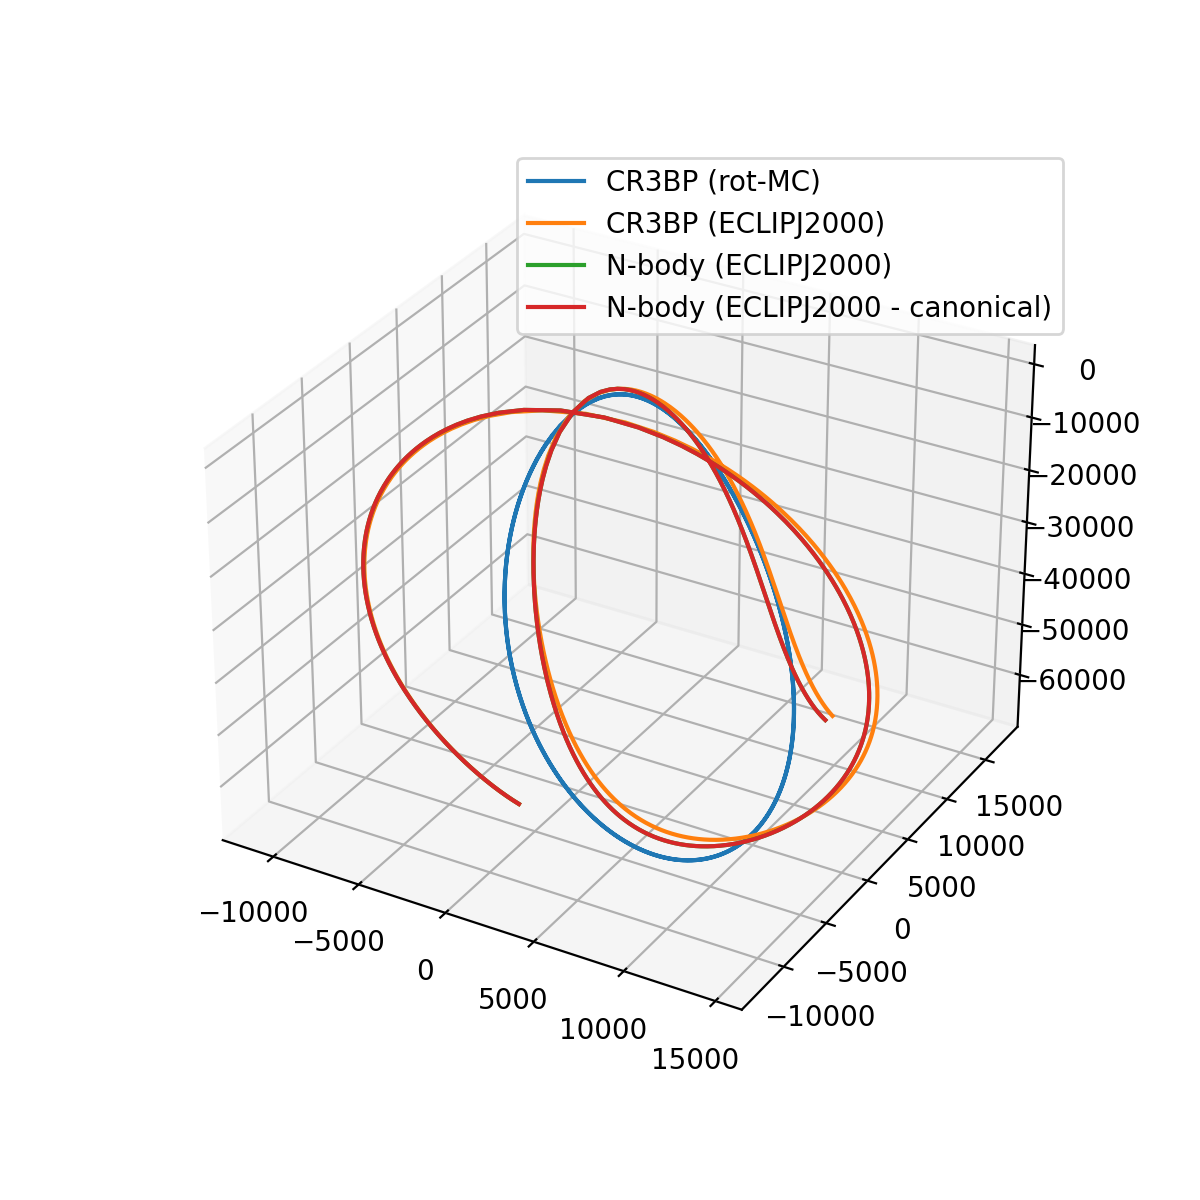
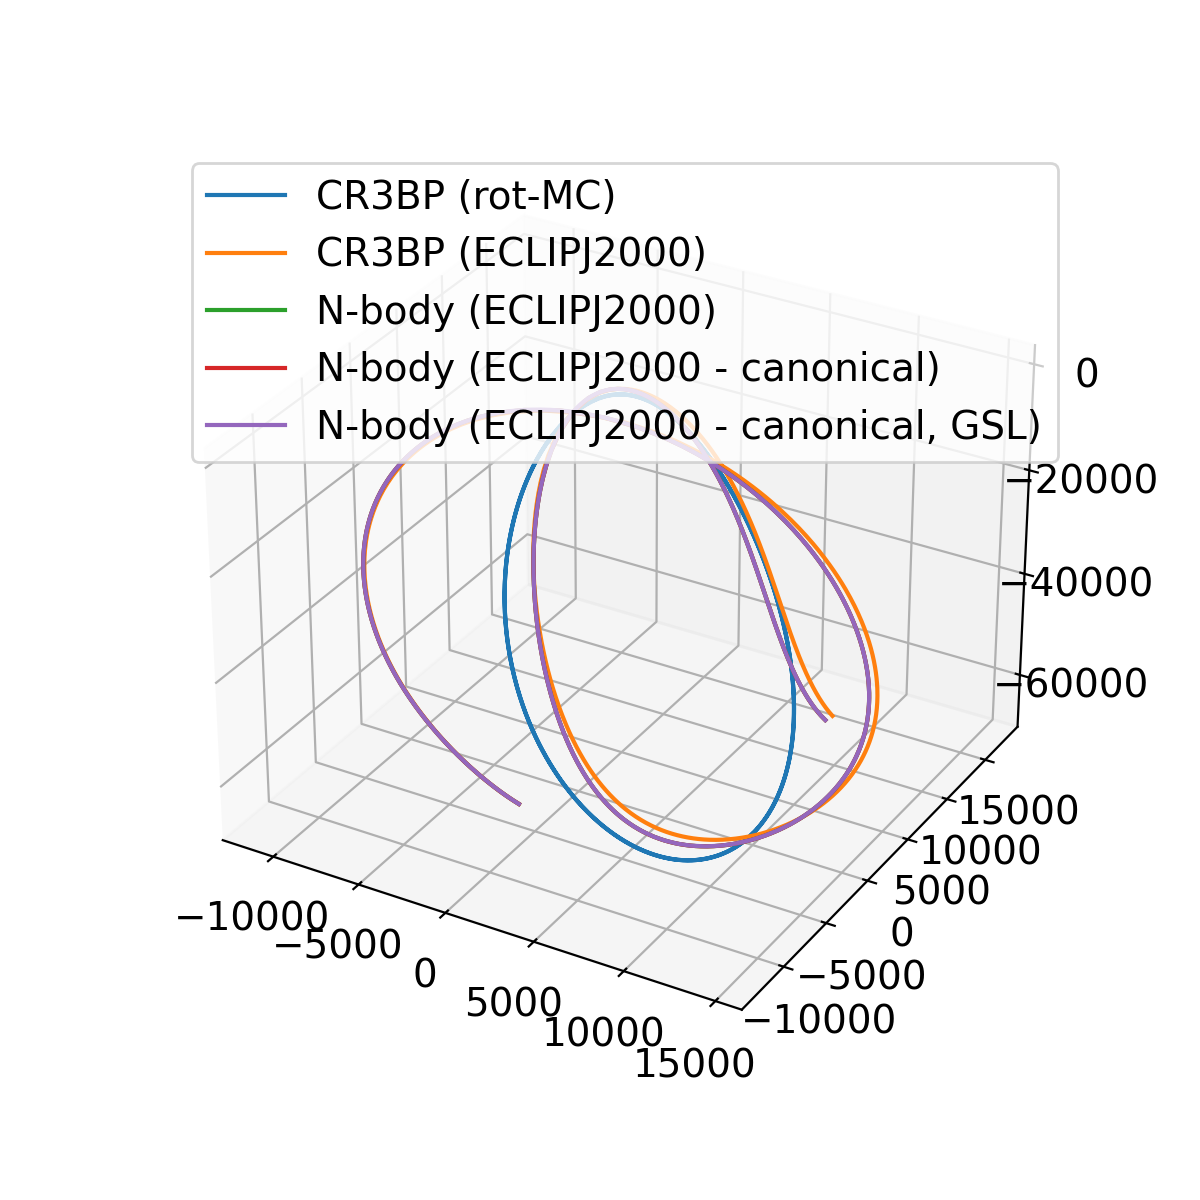
gsl-based functions init

diff --git a/luna2/_propagator_gsl_nbody.py b/luna2/_propagator_gsl_nbody.py
@@ -1,0 +1,125 @@
+"""
+Propagator with pygsl for full-ephemeris n-body problem
+For SPICE inertial frames, see:
+https://naif.jpl.nasa.gov/pub/naif/toolkit_docs/C/req/frames.html#Appendix.%20%60%60Built%20in''%20Inertial%20Reference%20Frames
+"""
+
+import copy
+import numpy as np
+import matplotlib.pyplot as plt
+
+import pygsl._numobj as numx
+from pygsl import odeiv
+
+
+from ._eom_scipy_nbody import eom_nbody
+from ._plotter import set_equal_axis
+
+
+class PseudoODESolution:
+    """Class for storing time and states in a format similar to ODE solution from solve_ivp.
+    This is purely for interoperability with EKF.
+    """
+    def __init__(self, ts, y, t_events=None, y_events=None):
+        assert len(ts) == y.shape[1], "y should be nx-by-N, where N is time-steps"
+        self.t = ts 
+        self.y = y
+        self.t_events = t_events
+        self.y_events = y_events
+        return 
+
+
+class GSLPropagatorNBody:
+    def __init__(
+        self,
+        naif_frame,
+        naif_ids,
+        mus,
+        lstar = 3000.0,
+        use_canonical=False,
+    ):
+        """Initialize propagator.
+        The spacecraft's N-body problem is formulated with `naif_ids[0]` as the primary body.
+        If `use_canonical = True`, `mus` are scaled such that the `mu` of the primary body is 1.
+        
+        Args:
+            naif_frame (str): SPICE frame name
+            naif_ids (list): SPICE NAIF IDs of gravitational bodies to account for
+            mus (list): GMs of gravitational bodies to account for, in km^3/s^2
+            lstar (float): length scale for canonical units, in km
+            use_canonical (bool): whether to use canonical units
+        """
+        self.naif_frame = naif_frame
+        self.naif_ids = naif_ids
+        self.mus = mus
+        self.use_canonical = use_canonical
+        if use_canonical:
+            self.mus_use = np.array(self.mus) / mus[0]
+            self.lstar = lstar
+            self.vstar = np.sqrt(mus[0]/self.lstar)
+            self.tstar = lstar/self.vstar
+        else:
+            self.mus_use = self.mus
+            self.lstar, self.tstar, self.vstar = 1.0, 1.0, 1.0
+        return
+    
+    def summary(self):
+        """Print info about integrator"""
+        print(f" ******* N-body GSL propagator summary ******* ")
+        print(f" |   NAIF frame      : {self.naif_frame}")
+        print(f" |   NAIF IDs        : {self.naif_ids}")
+        print(f" |   GMs             : {self.mus}")
+        print(f" |   Canonical units : {self.use_canonical}")
+        print(f" |   lstar           : {self.lstar}")
+        print(f" |   tstar           : {self.tstar}")
+        print(f" |   vstar           : {self.vstar}")
+        print(f" ----------------------------------------- ")
+        return
+    
+    def dim2nondim(self, state):
+        assert len(state) == 6, "state should be length 6"
+        return np.concatenate((state[0:3]/self.lstar, state[3:6]/self.vstar))
+
+    def eom(self, et0, t, x):
+        """Evaluate equations of motion"""
+        params = [self.mus_use, self.naif_ids, et0, self.lstar, self.tstar, self.naif_frame]
+        return eom_nbody(t, x, params)
+    
+    def solve(
+        self,
+        et0,
+        t_span,
+        x0,
+        t_eval = None,
+        eps_abs = 1e-12,
+        eps_rel = 1e-14,
+        hstart = 1e-6,
+        max_iter = 10000000,
+    ):
+        assert len(x0) == 6, "Initial state should be length 6!"
+
+        # initialize integrator
+        params = [self.mus_use, self.naif_ids, et0, self.lstar, self.tstar, self.naif_frame]
+        stepper = odeiv.step_rk8pd
+        dimension = len(x0)
+        step = stepper(dimension, eom_nbody, args = params)
+        control = odeiv.control_y_new(step, eps_abs, eps_rel)
+        evolve  = odeiv.evolve(step, control, dimension)
+
+        # initialize storage
+        ts = []
+        ys = []
+
+        # apply solve
+        t = t_span[0]
+        t1 = t_span[1]
+        y = copy.deepcopy(x0)
+        h = hstart
+        for i in range(max_iter):
+            if t >= t1:
+                break
+            t, h, y = evolve.apply(t, t1, h, y)
+            ts.append(t)
+            ys.append(y)
+        ys = np.array(ys).T
+        return PseudoODESolution(ts, ys)

diff --git a/luna2/_propagator_scipy_nbody.py b/luna2/_propagator_scipy_nbody.py
@@ -1,5 +1,5 @@
 """
-Propagator for full-ephemeris n-body problem
+Propagator with scipy for full-ephemeris n-body problem
 For SPICE inertial frames, see:
 https://naif.jpl.nasa.gov/pub/naif/toolkit_docs/C/req/frames.html#Appendix.%20%60%60Built%20in''%20Inertial%20Reference%20Frames
 """
@@ -50,7 +50,7 @@ class PropagatorNBody:
     
     def summary(self):
         """Print info about integrator"""
-        print(f" ******* N-body propagator summary ******* ")
+        print(f" ******* N-body scipy propagator summary ******* ")
         print(f" |   NAIF frame      : {self.naif_frame}")
         print(f" |   NAIF IDs        : {self.naif_ids}")
         print(f" |   GMs             : {self.mus}")
@@ -65,6 +65,11 @@ class PropagatorNBody:
         assert len(state) == 6, "state should be length 6"
         return np.concatenate((state[0:3]/self.lstar, state[3:6]/self.vstar))
 
+    def eom(self, et0, t, x):
+        """Evaluate equations of motion"""
+        params = [self.mus_use, self.naif_ids, et0, self.lstar, self.tstar, self.naif_frame]
+        return eom_nbody(t, x, params)
+    
     def solve(
         self, et0, t_span, x0,
         t_eval=None, method="RK45", rtol=1e-11, atol=1e-11, dense_output=False
@@ -90,11 +95,6 @@ class PropagatorNBody:
             eom_nbody, t_span, x0, args=(params,),
             t_eval=t_eval, method=method, rtol=rtol, atol=atol, dense_output=dense_output,
         )
-    
-    def eom(self, et0, t, x):
-        """Evaluate equations of motion"""
-        params = [self.mus_use, self.naif_ids, et0, self.lstar, self.tstar, self.naif_frame]
-        return eom_nbody(t, x, params)
     
     def get_stm_cdm(self, et0, tf, x0, h=1e-6, get_svf=False):
         """Get STM from et0 to tf using x0 as initial state

diff --git a/tests/test_propagator_nbody.py b/tests/test_propagator_nbody.py
@@ -96,9 +96,25 @@ if __name__=="__main__":
         luna2.dimensional_to_canonical(states_J2000, lstar_nbody, vstar_nbody)[:,0],
         t_eval=np.linspace(0, res_nbody.t[-1]/tstar_nbody, 1000)
     )
-    print("state0: ",
-        luna2.dimensional_to_canonical(states_J2000, lstar_nbody, vstar_nbody)[:,0]
+    print(f"Final state: {res_nbody_canonical.y[:,-1]}")
+
+    # create GSL-based integrator
+    prop_nbody_canonical = luna2.GSLPropagatorNBody(
+        naif_frame,
+        naif_ids,
+        mus,
+        lstar=lstar_nbody,
+        use_canonical=True,
     )
+    prop_nbody_canonical.summary()
+    res_gsl_canonical = prop_nbody_canonical.solve(
+        et0,
+        [0,res_nbody.t[-1]/tstar_nbody],
+        luna2.dimensional_to_canonical(states_J2000, lstar_nbody, vstar_nbody)[:,0],
+        t_eval=np.linspace(0, res_nbody.t[-1]/tstar_nbody, 1000)
+    )
+    print(f"Final state: {res_gsl_canonical.y[:,-1]}")
+
 
     # plot CR3BP trajectory
     fig = plt.figure(figsize = (6, 6))
@@ -108,11 +124,15 @@ if __name__=="__main__":
     #ax.plot(_states_cr3bp_MC[0,:], _states_cr3bp_MC[1,:], _states_cr3bp_MC[2,:], label="CR3BP")
     ax.plot(res_nbody.y[0,:], res_nbody.y[1,:], res_nbody.y[2,:], label=f"N-body ({naif_frame})")
 
-
     ax.plot(res_nbody_canonical.y[0,:]*lstar_nbody,
             res_nbody_canonical.y[1,:]*lstar_nbody,
             res_nbody_canonical.y[2,:]*lstar_nbody,
         label=f"N-body ({naif_frame} - canonical)")
+    
+    ax.plot(res_gsl_canonical.y[0,:]*lstar_nbody,
+            res_gsl_canonical.y[1,:]*lstar_nbody,
+            res_gsl_canonical.y[2,:]*lstar_nbody,
+        label=f"N-body ({naif_frame} - canonical, GSL)")
     
     ax.legend()
     plt.savefig("../plots/propagation_example.png", dpi=200)

diff --git a/dev/pygsl_examples/odeiv.py b/dev/pygsl_examples/odeiv.py
@@ -9,6 +9,7 @@ the output.
 """
 import sys
 import time
+import numpy as np
 import pygsl._numobj as numx
 from pygsl import odeiv
 
@@ -19,21 +20,22 @@ spice.furnsh(os.path.join(os.getenv("SPICE"), "lsk", "naif0012.tls"))
 spice.furnsh(os.path.join(os.getenv("SPICE"), "spk", "de440.bsp"))
 
 def func(t, y, mu):
-    f = numx.zeros((2,), ) * 1.0
+    #f = numx.zeros((2,), ) * 1.0
+    f = np.zeros(2,)
     f[0] = y[1]
     f[1] = -y[0] - mu * y[1] * (y[0] ** 2 -1)
     ET = spice.utc2et("2025-12-18T12:28:28")
     spice.spkezr("399", ET, "J2000", "NONE", "301")
     return f
 
-# def jac(t, y, mu):
-#     dfdy = numx.ones((2,2),) * 1. 
-#     dfdy[0, 0] = 0.0
-#     dfdy[0, 1] = 1.0
-#     dfdy[1, 0] = -2.0 * mu * y[0] * y[1] - 1.0
-#     dfdy[1, 1] = -mu * (y[0]**2 - 1.0)
-#     dfdt = numx.zeros((2,))
-#     return dfdy, dfdt
+def jac(t, y, mu):
+    dfdy = numx.ones((2,2),) * 1. 
+    dfdy[0, 0] = 0.0
+    dfdy[0, 1] = 1.0
+    dfdy[1, 0] = -2.0 * mu * y[0] * y[1] - 1.0
+    dfdy[1, 1] = -mu * (y[0]**2 - 1.0)
+    dfdt = numx.zeros((2,))
+    return dfdy, dfdt
     
 def run():
 
@@ -52,7 +54,7 @@ def run():
     #stepper = odeiv.step_gear2
     #stepper = odeiv.step_bsimp
     
-    step = stepper(dimension, func, None, mu)
+    step = stepper(dimension, func, jac, mu)
     # All above steppers exept the odeiv.step_bsimp (Buerlisch - Stoer Improved
     # method can calculate without an jacobian ...
     step = stepper(dimension, func, args=mu)

diff --git a/luna2/__init__.py b/luna2/__init__.py
@@ -3,7 +3,7 @@ Init file in module
 """
 
 # Let users know if they're missing any of our hard dependencies
-_hard_dependencies = ("numpy", "matplotlib", "scipy", "spiceypy", "pygmo")
+_hard_dependencies = ("numpy", "matplotlib", "scipy", "spiceypy")
 _missing_dependencies = []
 
 for _dependency in _hard_dependencies:
@@ -44,11 +44,21 @@ from ._newtonraphson import (
 #from ._heyoka_nbody import build_taylor_nbody
 from ._eom_scipy_cr3bp import eom_cr3bp
 from ._eom_scipy_nbody import third_body_battin, eom_nbody
-from ._propagator_cr3bp import PropagatorCR3BP
-from ._propagator_nbody import PropagatorNBody
+from ._propagator_scipy_cr3bp import PropagatorCR3BP
+from ._propagator_scipy_nbody import PropagatorNBody
 
-# model transition
-from ._udp_FullEphemerisTransition import FullEphemerisTransition
+try:
+    from ._propagator_gsl_nbody import GSLPropagatorNBody
+except:
+    print(f"WARNING : skipping GSL-dependent functions")
+    pass
 
-# algorithms for pygmo
-from ._algo_factory import algo_gradient
+try:
+    # model transition
+    from ._udp_FullEphemerisTransition import FullEphemerisTransition
+
+    # algorithms for pygmo
+    from ._algo_factory import algo_gradient
+except:
+    print(f"WARNING : skipping pygmo-dependent functions")
+    pass

diff --git a/luna2/_propagator_scipy_cr3bp.py b/luna2/_propagator_scipy_cr3bp.py
@@ -1,5 +1,5 @@
 """
-Propagator for CR3BP
+Propagator with scipy for CR3BP
 """
 
 import numpy as np
